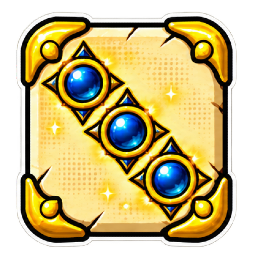
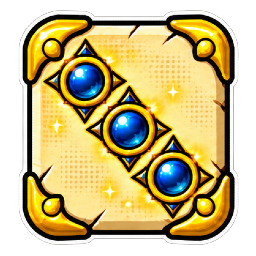
fix(des): S006 recentre, l'arrondi du logement mesure, la feuille bornee
LES DES S006 ETAIENT DECENTRES, ET EUX SEULS. Mesure du 2026-08-23 sur les
pixels VRAIMENT opaques (alpha >= 200) — la boite alpha brute inclut un halo
diffus et asymetrique qui ment de dix pixels et rend tout diagnostic faux :

  origine  corps 236 x 236  centre 127,9 / 127,9
  S002     corps 232 x 239  centre 128,0 / 127,5
  S005     corps 228 x 235  centre 127,9 / 127,8
  S006     corps 218 x 233  centre 125,3 / 129,4   <- 2,6 px a gauche, 1,5 en bas
  S007     corps 238 x 233  centre 127,9 / 127,9

Les douze faces sont recentrees par TRANSLATION ENTIERE : aucun
reechantillonnage, aucune deformation, le dessin livre n'est pas retouche.
Apres : 128,3 / 127,6.

⚠ ET L'ARRONDI DU LOGEMENT SUPPOSAIT UN CORPS DE 239/256 POUR TOUT LE MONDE.
Vrai a un pixel pres pour nos des et pour l'or, faux de 21 px pour S006 : le
logement etait arrondi pour un de plus gros que celui qu'on y pose, donc les
coins ne se suivaient pas. La part du corps est desormais MESUREE, parure par
parure. Pour S006 l'arrondi passe de 18,35 % a 20,13 % de la case.

LA FEUILLE DE LA BOUTIQUE MONTAIT JUSQU'AU BORD. Depuis que la page passe sous
l'encoche, son plafond de 96 px fixes ne suffisait plus : la croix de fermeture
tombait DANS la Dynamic Island, sous une zone que le doigt n'atteint pas — une
boutique qu'on ne pouvait plus fermer. Le plafond compte maintenant la marge de
surete reelle plus l'entete, et le defilement est explicite.

diff --git a/www/js/pages/dice_state.js b/www/js/pages/dice_state.js
@@ -52,15 +52,30 @@ const ARRONDI = { S002: 25.8, S003: 25.1, S004: 25.1, S005: 21.3, S006: 16.1, S0
 const ARRONDI_ORIGINE = 27;
 
 /**
+ * La part de la toile qu'occupe le CORPS du de, parure par parure.
+ *
+ * ⚠ CE N'ETAIT PAS UNE CONSTANTE, ET LA TRAITER COMME TELLE FAUSSAIT LE
+ * LOGEMENT. Le calcul supposait 239 px sur 256 pour tout le monde — vrai a un
+ * pixel pres pour nos des et pour l'or, faux de 21 px pour l'arabe (S006), dont
+ * le corps ne fait que 225. Le logement etait donc arrondi pour un de plus gros
+ * que celui qu'on y pose : les coins ne se suivaient pas. Mesure du 2026-08-23
+ * sur les pixels VRAIMENT opaques (alpha >= 200) — la boite alpha brute inclut
+ * un halo diffus et asymetrique qui ment de dix pixels.
+ */
+const CORPS = { S002: 0.920, S003: 0.926, S004: 0.928, S005: 0.905, S006: 0.881, S007: 0.920 };
+const CORPS_ORIGINE = 0.923;
+
+/**
  * L'arrondi du LOGEMENT, en fraction de la case.
  *
- * Le dé n'occupe que 239 des 256 px de sa toile : il reste une marge de part et
- * d'autre. Pour que les deux bords restent parallèles :
- *     rayon du logement = rayon du dé x (239/256) + demi-marge
+ * Le de n'occupe qu'une part de sa toile : il reste une marge de part et
+ * d'autre. Pour que les deux bords restent paralleles :
+ *     rayon du logement = rayon du de x part du corps + demi-marge
  */
 export function arrondiDeCase(skin) {
   const pc = (skin && ARRONDI[skin]) || ARRONDI_ORIGINE;
-  return (pc / 100) * (239 / 256) + (1 - 239 / 256) / 2;
+  const corps = (skin && CORPS[skin]) || CORPS_ORIGINE;
+  return (pc / 100) * corps + (1 - corps) / 2;
 }
 
 export function skinOf(seat) {

diff --git a/app/css/mobile.css b/app/css/mobile.css
@@ -299,7 +299,14 @@ input, textarea { -webkit-user-select: text; user-select: text; }
     /* Le plafond est un plafond DE SECURITE : une feuille longue defile au lieu
        de repousser son bas hors de l'ecran. Les 96 px laisses au-dessus gardent
        l'entete visible, donc on sait toujours d'ou l'on vient. */
-    max-height: calc(100dvh - 96px);
+    /* ⚠ 96 PX FIXES NE SUFFISENT PLUS DEPUIS QUE LA PAGE MONTE SOUS L'ENCOCHE.
+       La feuille remontait jusqu'au bord haut : sa croix de fermeture tombait
+       DANS la Dynamic Island, donc sous une zone que le doigt n'atteint pas —
+       une boutique qu'on ne peut plus fermer. Le plafond compte desormais la
+       marge de surete reelle PLUS la hauteur de l'entete, et il vaut donc ce
+       qu'il faut sur chaque appareil au lieu d'une valeur choisie sur un seul. */
+    max-height: calc(100dvh - env(safe-area-inset-top, 0px) - 78px);
+    overflow-y: auto;
     overscroll-behavior: contain;
     -webkit-overflow-scrolling: touch;
     /* La feuille est un panneau comic : coins ronds inegaux et lisere blanc. */

diff --git a/www/css/mobile.css b/www/css/mobile.css
@@ -299,7 +299,14 @@ input, textarea { -webkit-user-select: text; user-select: text; }
     /* Le plafond est un plafond DE SECURITE : une feuille longue defile au lieu
        de repousser son bas hors de l'ecran. Les 96 px laisses au-dessus gardent
        l'entete visible, donc on sait toujours d'ou l'on vient. */
-    max-height: calc(100dvh - 96px);
+    /* ⚠ 96 PX FIXES NE SUFFISENT PLUS DEPUIS QUE LA PAGE MONTE SOUS L'ENCOCHE.
+       La feuille remontait jusqu'au bord haut : sa croix de fermeture tombait
+       DANS la Dynamic Island, donc sous une zone que le doigt n'atteint pas —
+       une boutique qu'on ne peut plus fermer. Le plafond compte desormais la
+       marge de surete reelle PLUS la hauteur de l'entete, et il vaut donc ce
+       qu'il faut sur chaque appareil au lieu d'une valeur choisie sur un seul. */
+    max-height: calc(100dvh - env(safe-area-inset-top, 0px) - 78px);
+    overflow-y: auto;
     overscroll-behavior: contain;
     -webkit-overflow-scrolling: touch;
     /* La feuille est un panneau comic : coins ronds inegaux et lisere blanc. */
